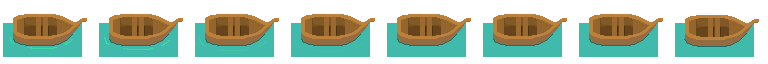
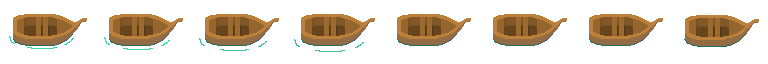
Done! *drops mic, walks away*

Changed region(s): [[0.0, 0.3438, 1.0, 0.9062]]

diff --git a/index.html b/index.html
@@ -362,6 +362,9 @@ function preload() {
   game.load.spritesheet('boat', 'assets/boat.png', 96, 64);
   game.load.spritesheet('mushroom', 'assets/svamp.png', 32, 32);
   game.load.spritesheet('mushroom2', 'assets/svamp2.png', 32, 32);
+  game.load.spritesheet('wave', 'assets/wave.png', 32, 32);
+  game.load.spritesheet('wave2', 'assets/wave2.png', 32, 32);
+  game.load.spritesheet('coinz', 'assets/coinz.png', 32, 32);
   game.load.image('safe_top', 'assets/safe_tile_top.png');
   game.load.image('safe_bottom', 'assets/safe_tile_bottom.png');
   game.load.image('beach', 'assets/beach_tile.png');
@@ -472,6 +475,45 @@ function create() {
       boat.y = boat.y - 10;
       boat.x = boat.x - 6;
 
+      var wave = null;
+      wave = monster.addSprite('wave', 4, 1);
+      wave.animations.add('idle');
+      wave.animations.play('idle', 6, true);
+      wave.x = wave.x - 24;
+      wave.y = wave.y + 24;
+
+      wave = monster.addSprite('wave', 7, 2);
+      wave.animations.add('idle');
+      wave.animations.play('idle', 4, true);
+      wave.y = wave.y - 28;
+      wave.x = wave.x + 16;
+
+      wave = monster.addSprite('wave', 6, 1);
+      wave.animations.add('idle');
+      wave.animations.play('idle', 7, true);
+      wave.scale.setTo(1, 1);
+      wave.y = wave.y + 14;
+      wave.x = wave.x + 16;
+
+      wave = monster.addSprite('wave', 9, 1);
+      wave.animations.add('idle');
+      wave.animations.play('idle', 6, true);
+      // wave.y = wave.y - 10;
+      wave.x = wave.x + 24;
+
+      wave = monster.addSprite('wave2', 5, 2);
+      wave.animations.add('idle');
+      wave.animations.play('idle', 6, true);
+      wave.x = wave.x + 0;
+      wave.y = wave.y - 12;
+
+      wave = monster.addSprite('wave2', 10, 2);
+      wave.animations.add('idle');
+      wave.scale.setTo(1, 1);
+      wave.animations.play('idle', 7, true);
+      wave.x = wave.x + 24;
+      wave.y = wave.y + 20;
+
       var mushroom = null;
 
       mushroom = monster.addSprite('mushroom', 1, 3);
@@ -576,19 +618,27 @@ function create() {
   'Music: "Cartoon menu music" by fearing';
   monster.intro = game.add.bitmapText(70, 70, 'font_orange', intro, 16);
 
-  var sprite = game.add.sprite(13 * monster.tileSize - 24, 2 * monster.tileSize + 20, 'coin');
+  var sprite = game.add.sprite(13 * monster.tileSize - 24, 2 * monster.tileSize + 24, 'coinz');
+  sprite.animations.add('idle')
+  sprite.animations.play('idle', 8, true);
   sprite.scale.setTo(2, 2);
   sprite.smoothed = false;
 
-  monster.coinText = game.add.bitmapText(monster.position(13) + 32, monster.position(2) + (monster.tileSize / 2) - 8 + 20, 'font', ''+monster.coins, 16);
+  monster.coinText = game.add.bitmapText(monster.position(13) + 32, monster.position(2) + (monster.tileSize / 2) - 8 + 24, 'font', ''+monster.coins, 16);
 
-  game.add.sprite(13 * monster.tileSize, 5 * monster.tileSize, 'coin');
+  sprite = game.add.sprite(13 * monster.tileSize, 5 * monster.tileSize, 'coinz');
+  sprite.animations.add('idle')
+  sprite.animations.play('idle', 8, true);
   game.add.bitmapText(monster.position(13) + 32, monster.position(5) + 8, 'font', '1', 16);
 
-  game.add.sprite(13 * monster.tileSize, 7 * monster.tileSize, 'coin');
+  sprite = game.add.sprite(13 * monster.tileSize, 7 * monster.tileSize, 'coinz');
+  sprite.animations.add('idle')
+  sprite.animations.play('idle', 8, true);
   game.add.bitmapText(monster.position(13) + 32, monster.position(7) + 8, 'font', '7', 16);
 
-  game.add.sprite(13 * monster.tileSize, 10 * monster.tileSize + 26, 'coin');
+  sprite = game.add.sprite(13 * monster.tileSize, 10 * monster.tileSize + 26, 'coinz');
+  sprite.animations.add('idle')
+  sprite.animations.play('idle', 8, true);
   game.add.bitmapText(monster.position(13) + 32, monster.position(10) + 34, 'font', '3', 16);
   //sprite.scale.setTo(2, 2);
   sprite.smoothed = false;
